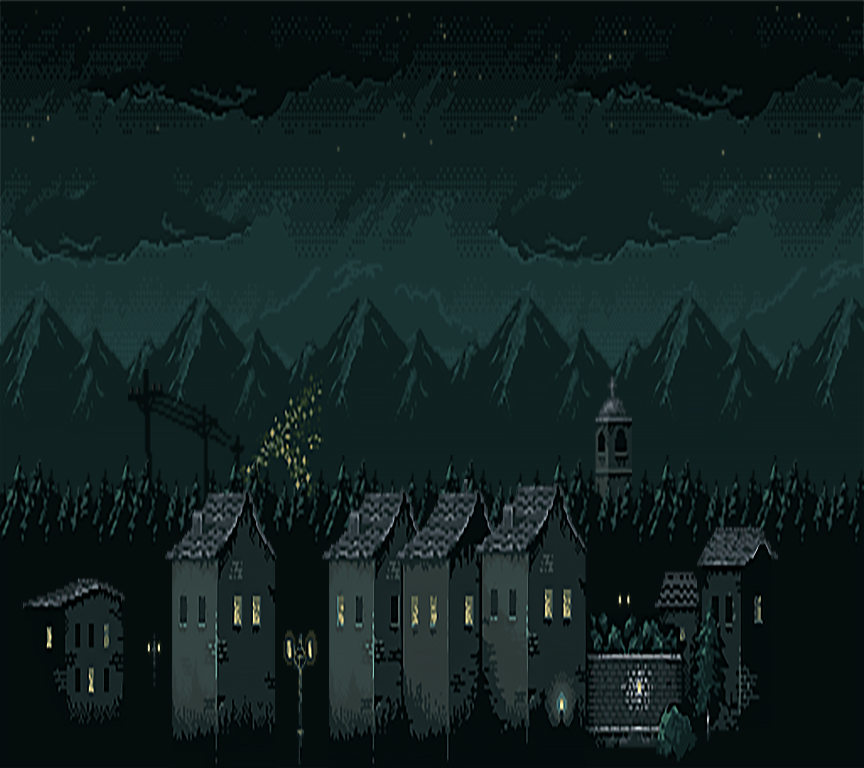
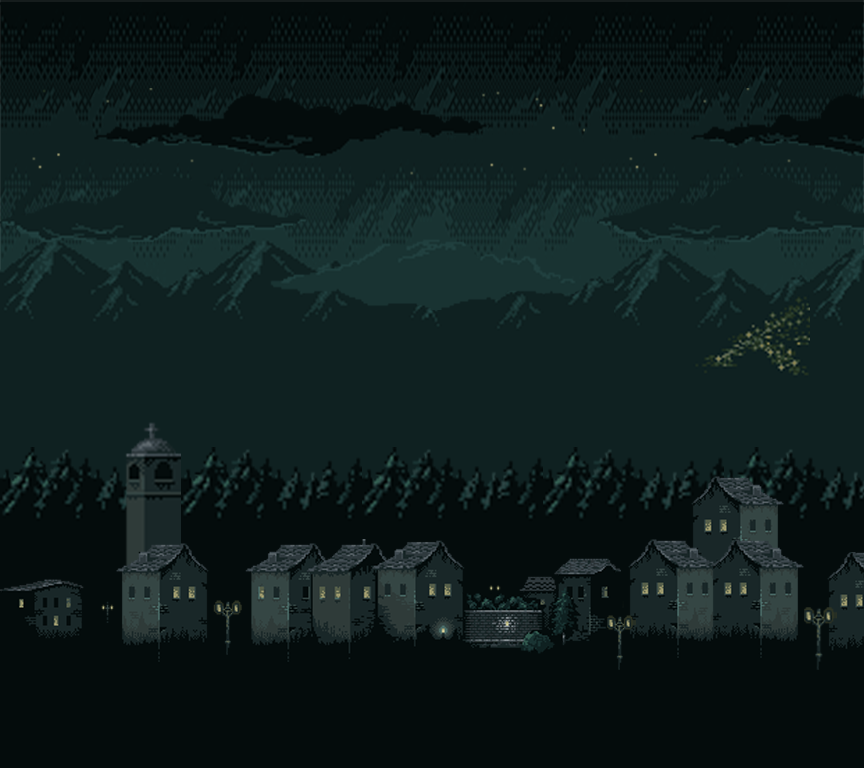
vectors for aum edit

diff --git a/flappy.py b/flappy.py
@@ -38,8 +38,8 @@ pass_pipe = False
 check = False
 
 #load images
-bg = pygame.image.load('img/nightbg1.png')
-ground_img = pygame.image.load('img/groundtest.png')
+bg = pygame.image.load('img/nightbg.png')
+ground_img = pygame.image.load('img/groundpiyanutconfirm.png')
 button_img = pygame.image.load('img/restart.png')
 heart_img = pygame.image.load('img/heart.png')
 
